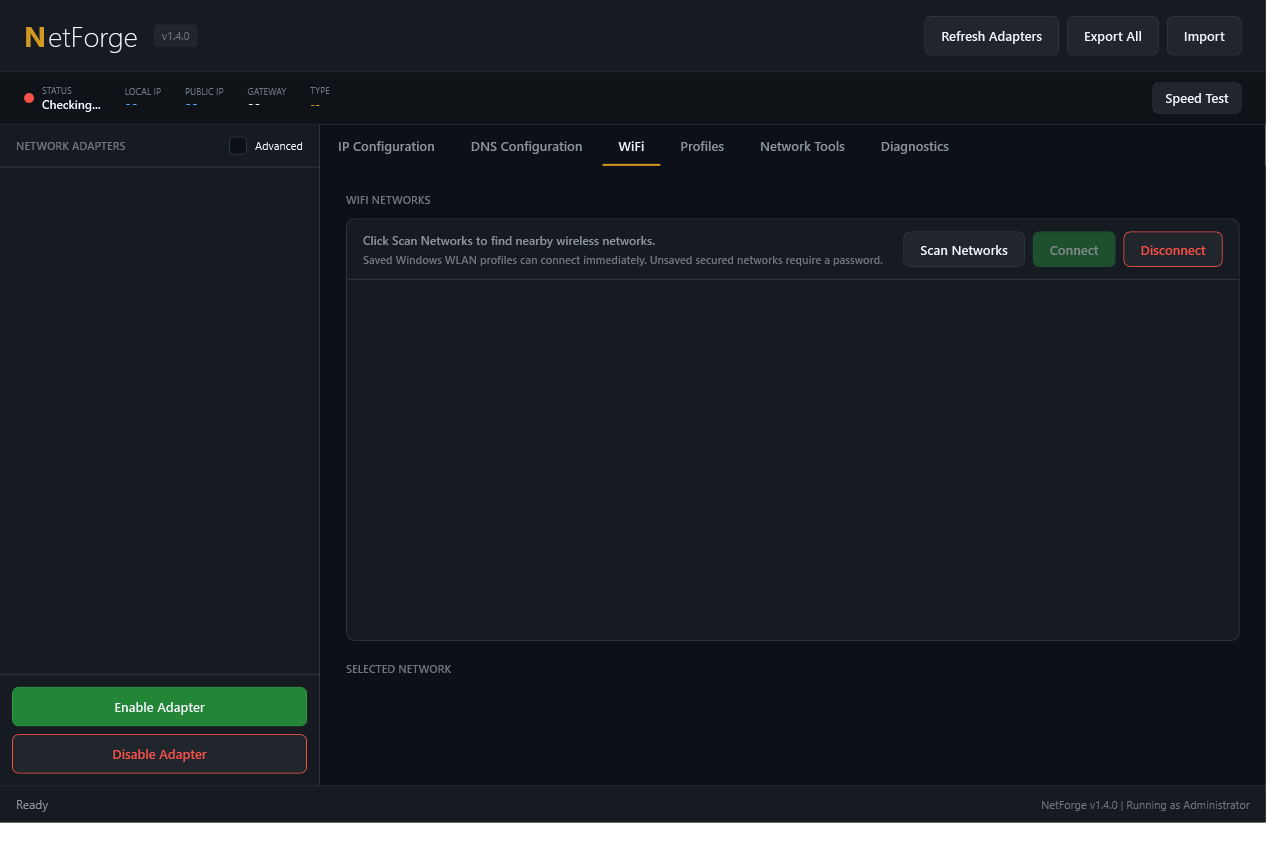
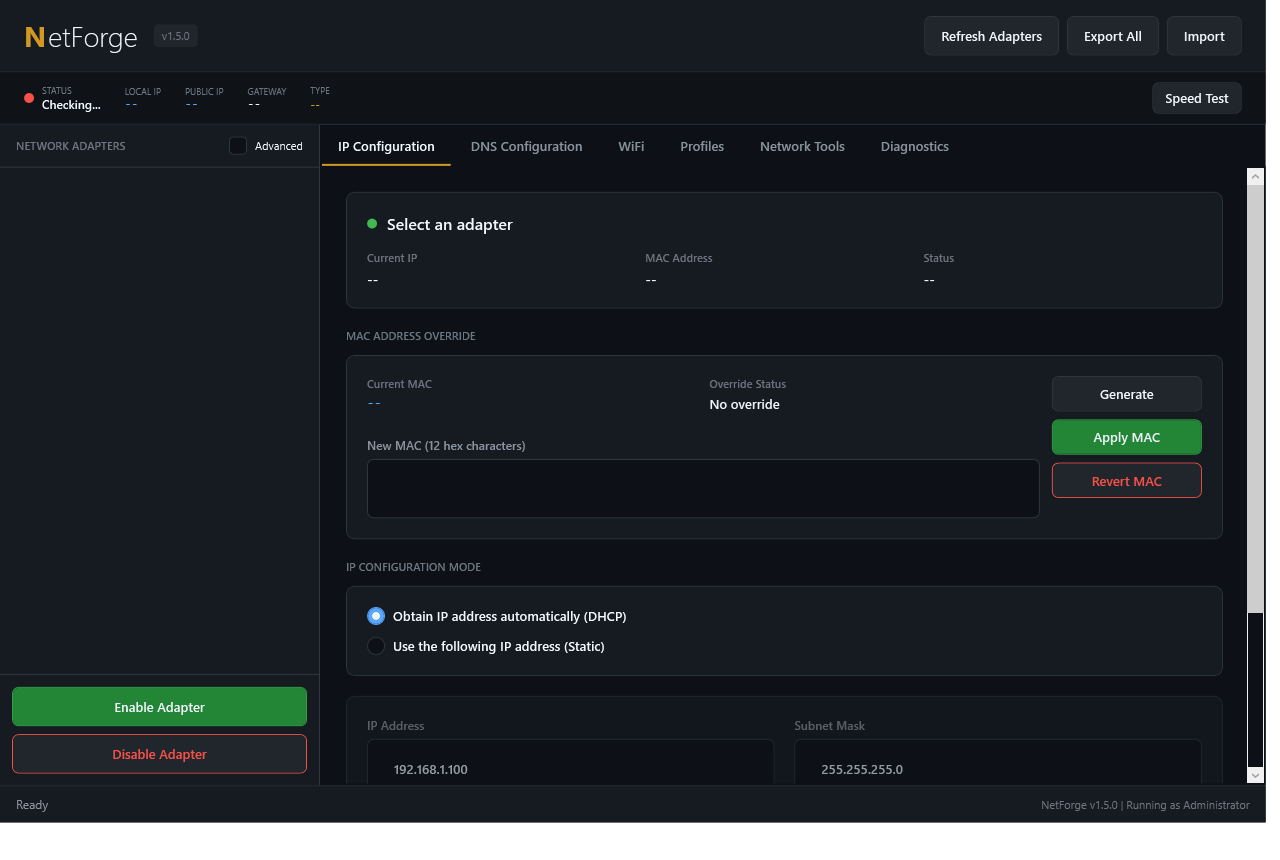
feat: add MAC override revert controls

diff --git a/README.md b/README.md
@@ -6,7 +6,7 @@
   <img src="https://img.shields.io/badge/Platform-Windows-0078D6?style=for-the-badge&logo=windows" alt="Windows"/>
   <img src="https://img.shields.io/badge/PowerShell-5.1+-5391FE?style=for-the-badge&logo=powershell&logoColor=white" alt="PowerShell"/>
   <img src="https://img.shields.io/badge/License-MIT-green?style=for-the-badge" alt="License"/>
-  <img src="https://img.shields.io/badge/Version-1.4.0-orange?style=for-the-badge" alt="Version"/>
+  <img src="https://img.shields.io/badge/Version-1.5.0-orange?style=for-the-badge" alt="Version"/>
 </p>
 
 <p align="center">
@@ -35,6 +35,7 @@
 - View all physical network adapters with real-time status
 - Enumerate Bluetooth PAN and cellular/mobile broadband adapters
 - Advanced switch for Hyper-V, VMware, VirtualBox, VPN, TAP, and other virtual adapters
+- MAC address override with random generation and revert to hardware default
 - Enable/disable adapters with one click
 - Display detailed adapter information (MAC, speed, driver, media state)
 - Auto-refresh capability
